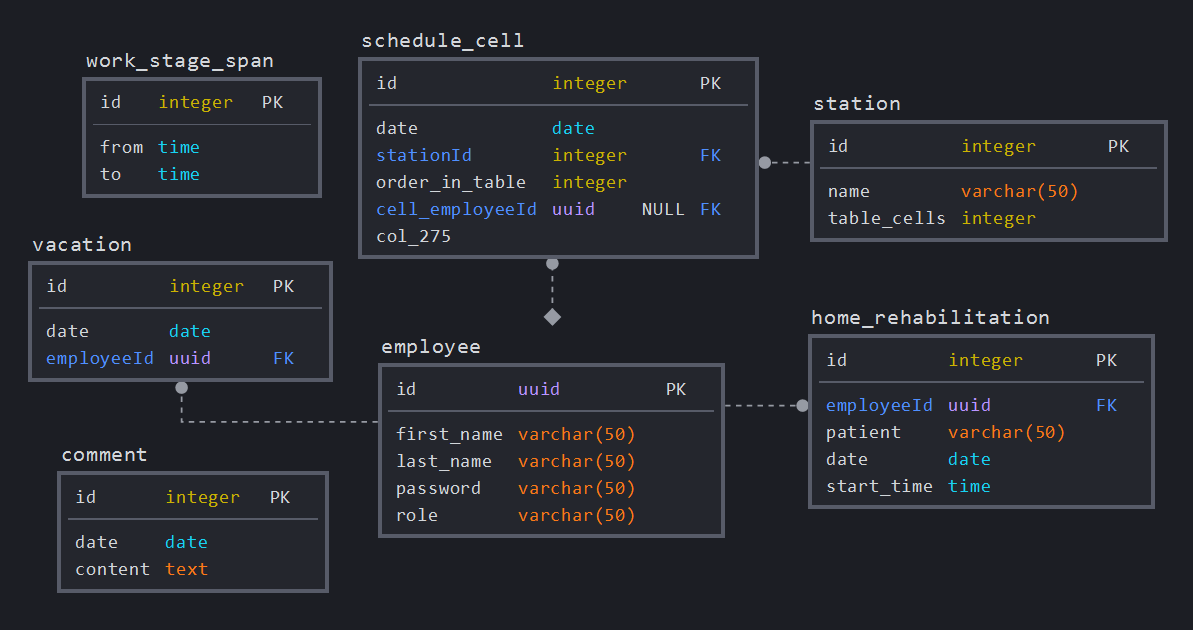
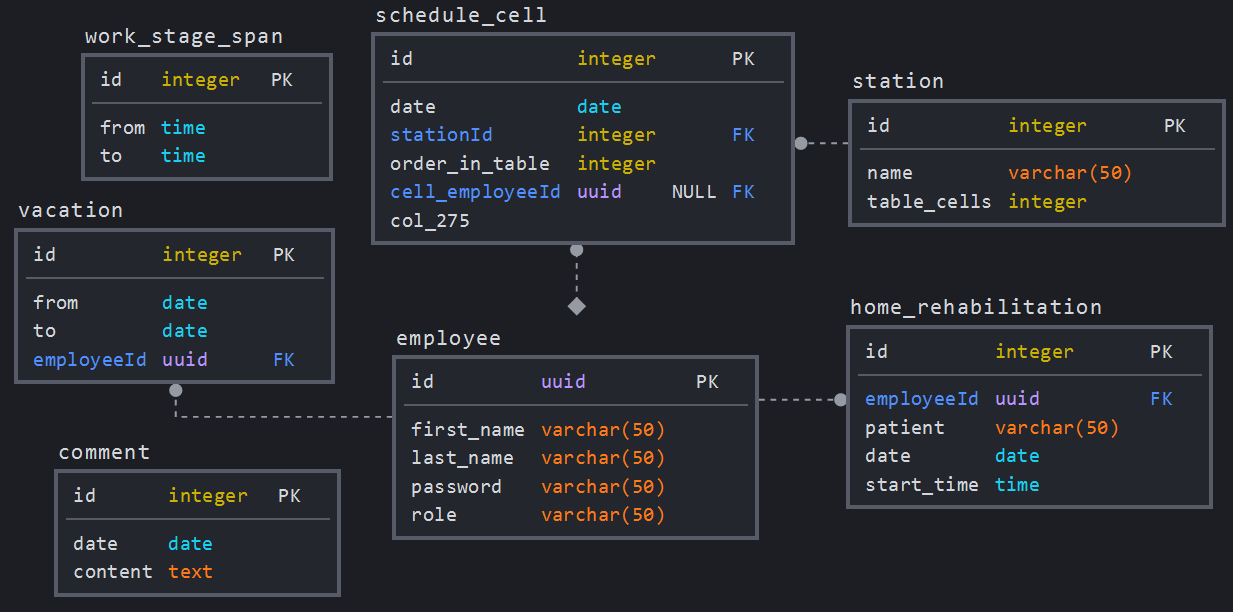
Changed vacation model

diff --git a/source/domain/entities/Vacation.ts b/source/domain/entities/Vacation.ts
@@ -7,15 +7,19 @@ export class Vacation {
 	public id: number;
 
 	@Column({ type: 'date' })
-	public date: string;
+	public from: string;
+
+	@Column({ type: 'date' })
+	public to: string;
 
 	@ManyToOne(() => Employee, (employee) => employee.vacations, {
 		nullable: false,
 	})
 	public employee: Employee;
 
-	constructor(date: string, employee: Employee) {
-		this.date = date;
+	constructor(from: string, to: string, employee: Employee) {
+		this.from = from;
+		this.to = to;
 		this.employee = employee;
 	}
 }
